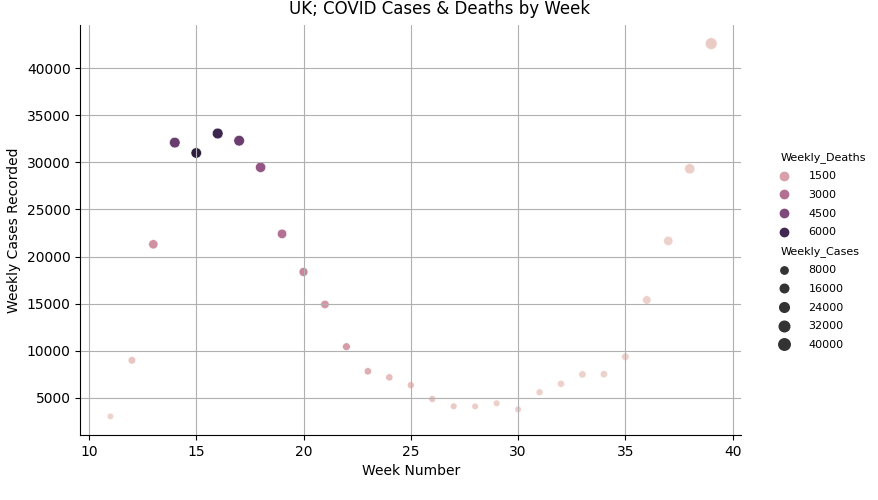
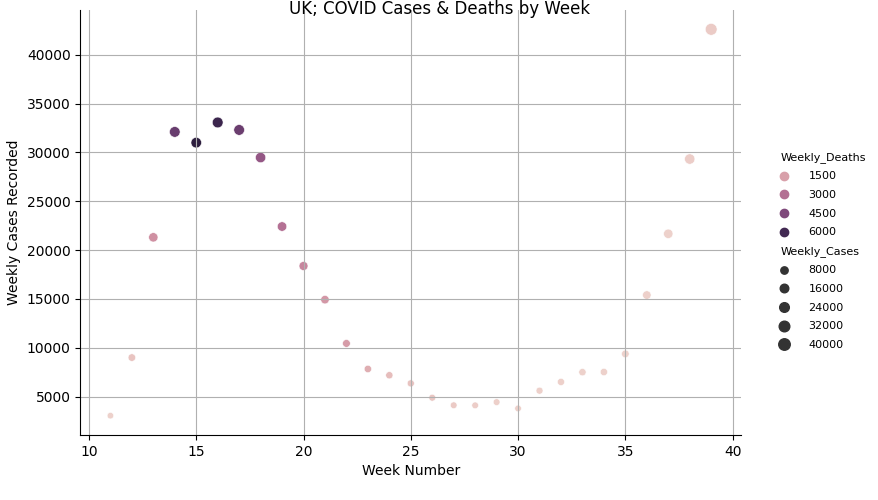
01.02 Commit

diff --git a/Colm_OKane_UCD_Project/UK; Cases & Deaths.py b/Colm_OKane_UCD_Project/UK; Cases & Deaths.py
@@ -6,8 +6,7 @@ from matplotlib import rcParams
 data = pd.read_csv('RDCDFinal.csv', index_col=0)
 print(data.columns)
 RD = data.loc[:, ['location', 'Econ_Block', 'Week_Num', 'Weekly_Cases',
-                  'Stringency_Indexed', 'population', 'Weekly_Deaths',
-                  'Deaths_%_Cases']]
+                  'Stringency_Indexed', 'population', 'Weekly_Deaths',]]
 RDEcon = RD.query('Econ_Block== "EU"')
 
 # Chart showing Case numbers over time, against number of deaths in teh UK
@@ -18,7 +17,7 @@ sns.axes_style('darkgrid')
 g.fig.suptitle('UK; COVID Cases & Deaths by Week', x=0.5, y=1.0)
 g.set_ylabels('Weekly Cases Recorded')
 g.set_xlabels('Week Number')
-plt.subplots_adjust(top=0.95, bottom=0.13)
+plt.subplots_adjust(top=0.98, bottom=0.13)
 #plt.figlegend()
 sns.set_palette('RdBu')
 plt.grid(True)
